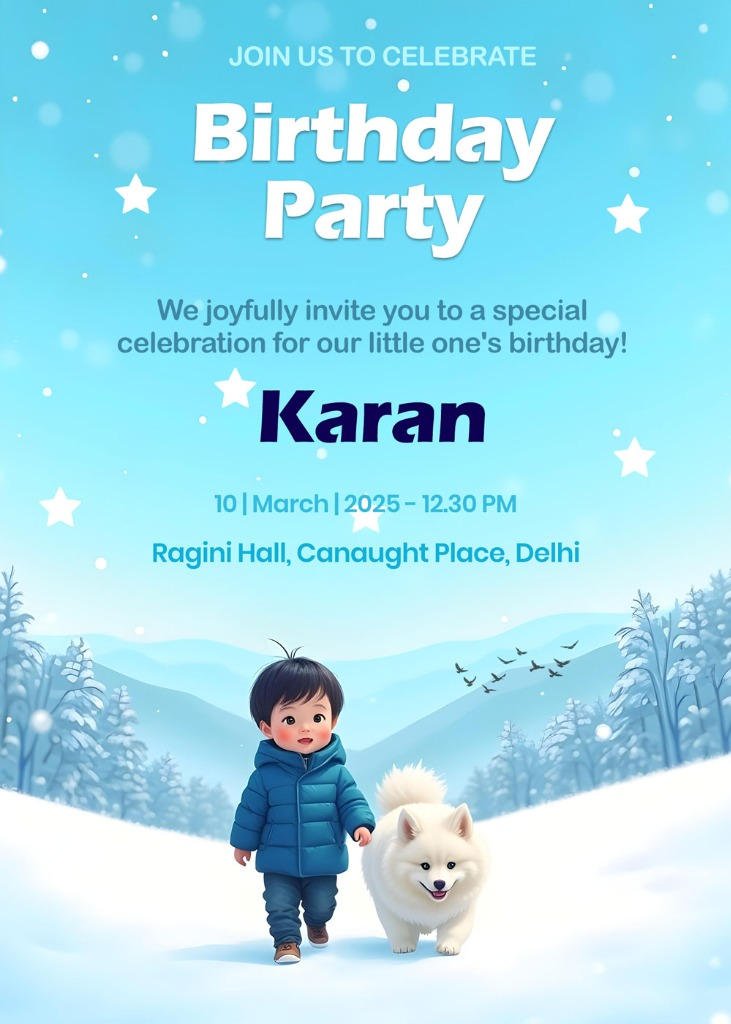
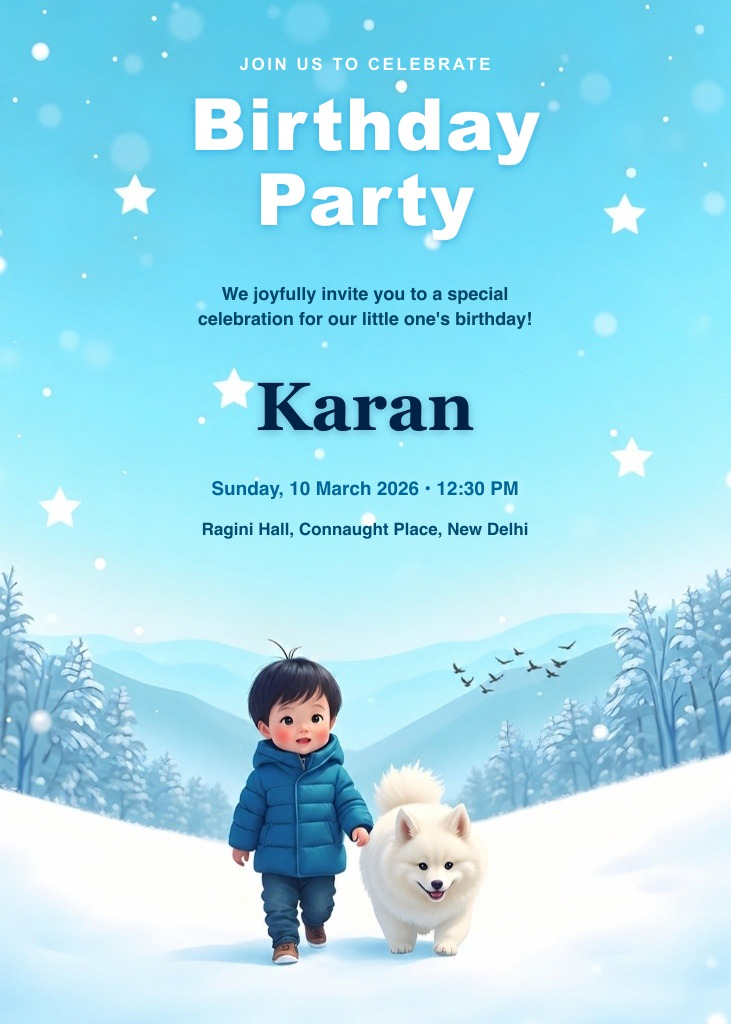
feat: apply new clean background to winter-snow-baby-birthday and center all text layers

diff --git a/src/data/templates.ts b/src/data/templates.ts
@@ -2116,9 +2116,9 @@ export const SAMPLE_TEMPLATES: CardTemplate[] = [
         "shadowBlur": 6,
         "shadowOffsetX": 0,
         "shadowOffsetY": 2,
-        "x": 65,
+        "x": 0,
         "y": 48,
-        "width": 600,
+        "width": 731,
         "height": 26,
         "rotation": 0,
         "opacity": 1,
@@ -2142,9 +2142,9 @@ export const SAMPLE_TEMPLATES: CardTemplate[] = [
         "shadowBlur": 10,
         "shadowOffsetX": 0,
         "shadowOffsetY": 3,
-        "x": 65,
+        "x": 0,
         "y": 92,
-        "width": 600,
+        "width": 731,
         "height": 155,
         "rotation": 0,
         "opacity": 1,
@@ -2164,9 +2164,9 @@ export const SAMPLE_TEMPLATES: CardTemplate[] = [
         "letterSpacing": 0.5,
         "lineHeight": 1.35,
         "textTransform": "none",
-        "x": 65,
+        "x": 0,
         "y": 285,
-        "width": 600,
+        "width": 731,
         "height": 55,
         "rotation": 0,
         "opacity": 1,
@@ -2190,9 +2190,9 @@ export const SAMPLE_TEMPLATES: CardTemplate[] = [
         "shadowBlur": 8,
         "shadowOffsetX": 0,
         "shadowOffsetY": 2,
-        "x": 65,
+        "x": 0,
         "y": 375,
-        "width": 600,
+        "width": 731,
         "height": 80,
         "rotation": 0,
         "opacity": 1,
@@ -2212,9 +2212,9 @@ export const SAMPLE_TEMPLATES: CardTemplate[] = [
         "letterSpacing": 0.8,
         "lineHeight": 1.2,
         "textTransform": "none",
-        "x": 65,
+        "x": 0,
         "y": 475,
-        "width": 600,
+        "width": 731,
         "height": 30,
         "rotation": 0,
         "opacity": 1,
@@ -2234,9 +2234,9 @@ export const SAMPLE_TEMPLATES: CardTemplate[] = [
         "letterSpacing": 0.4,
         "lineHeight": 1.3,
         "textTransform": "none",
-        "x": 65,
+        "x": 0,
         "y": 518,
-        "width": 600,
+        "width": 731,
         "height": 32,
         "rotation": 0,
         "opacity": 1,
